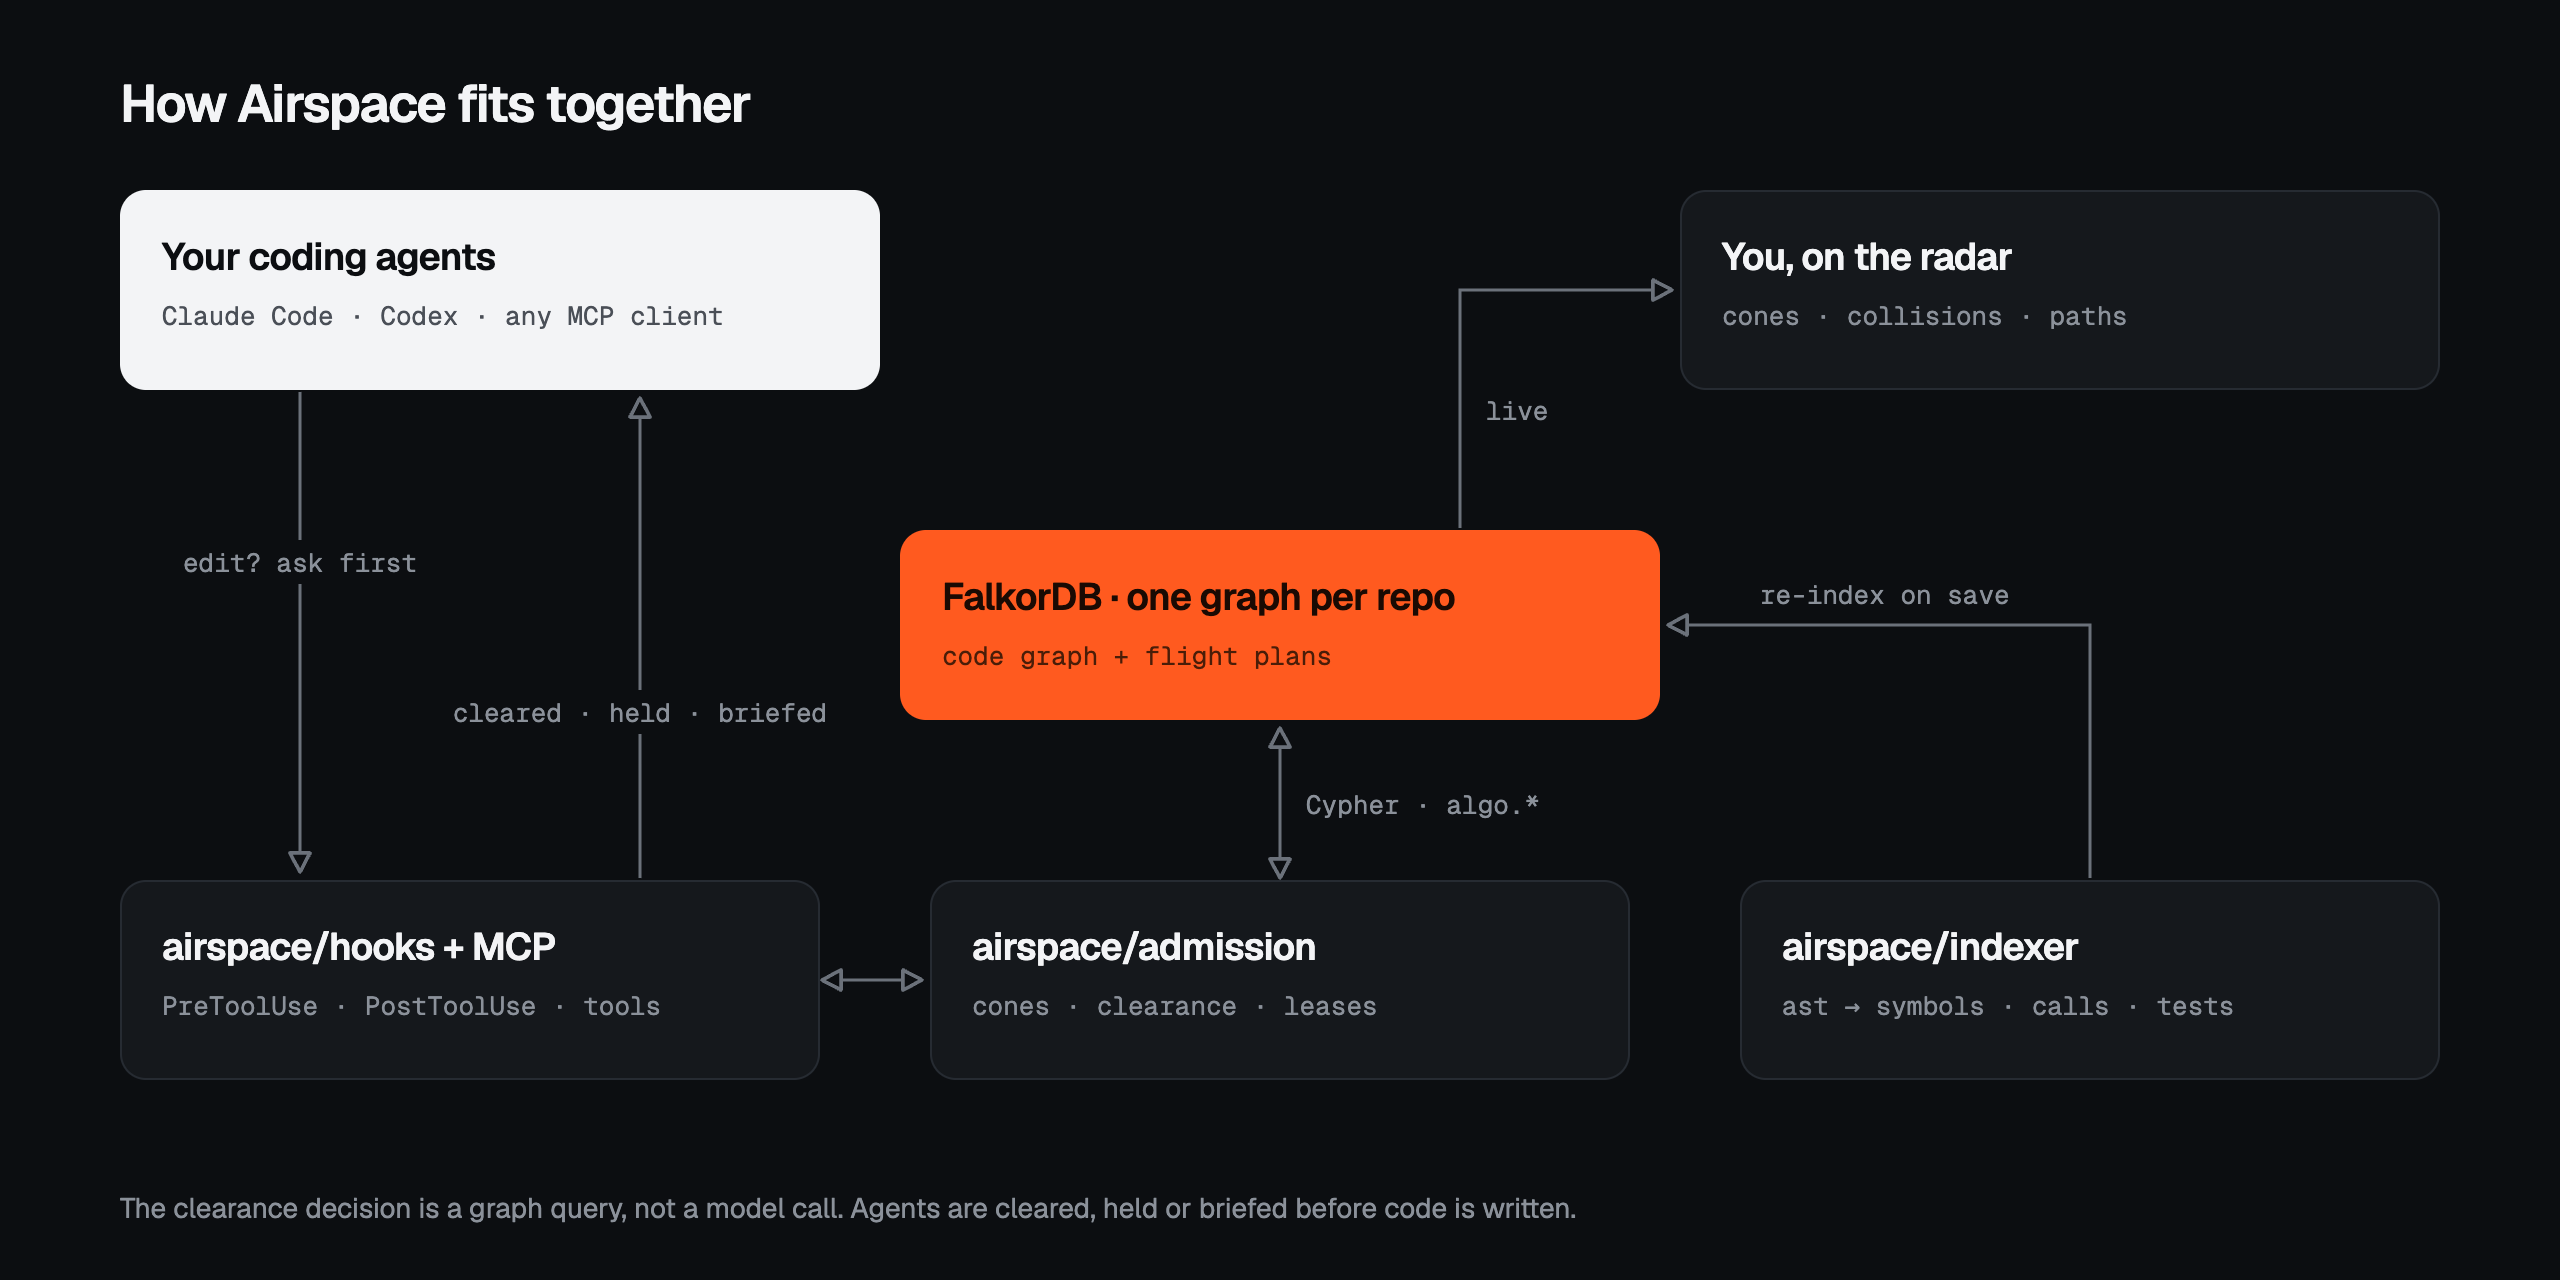
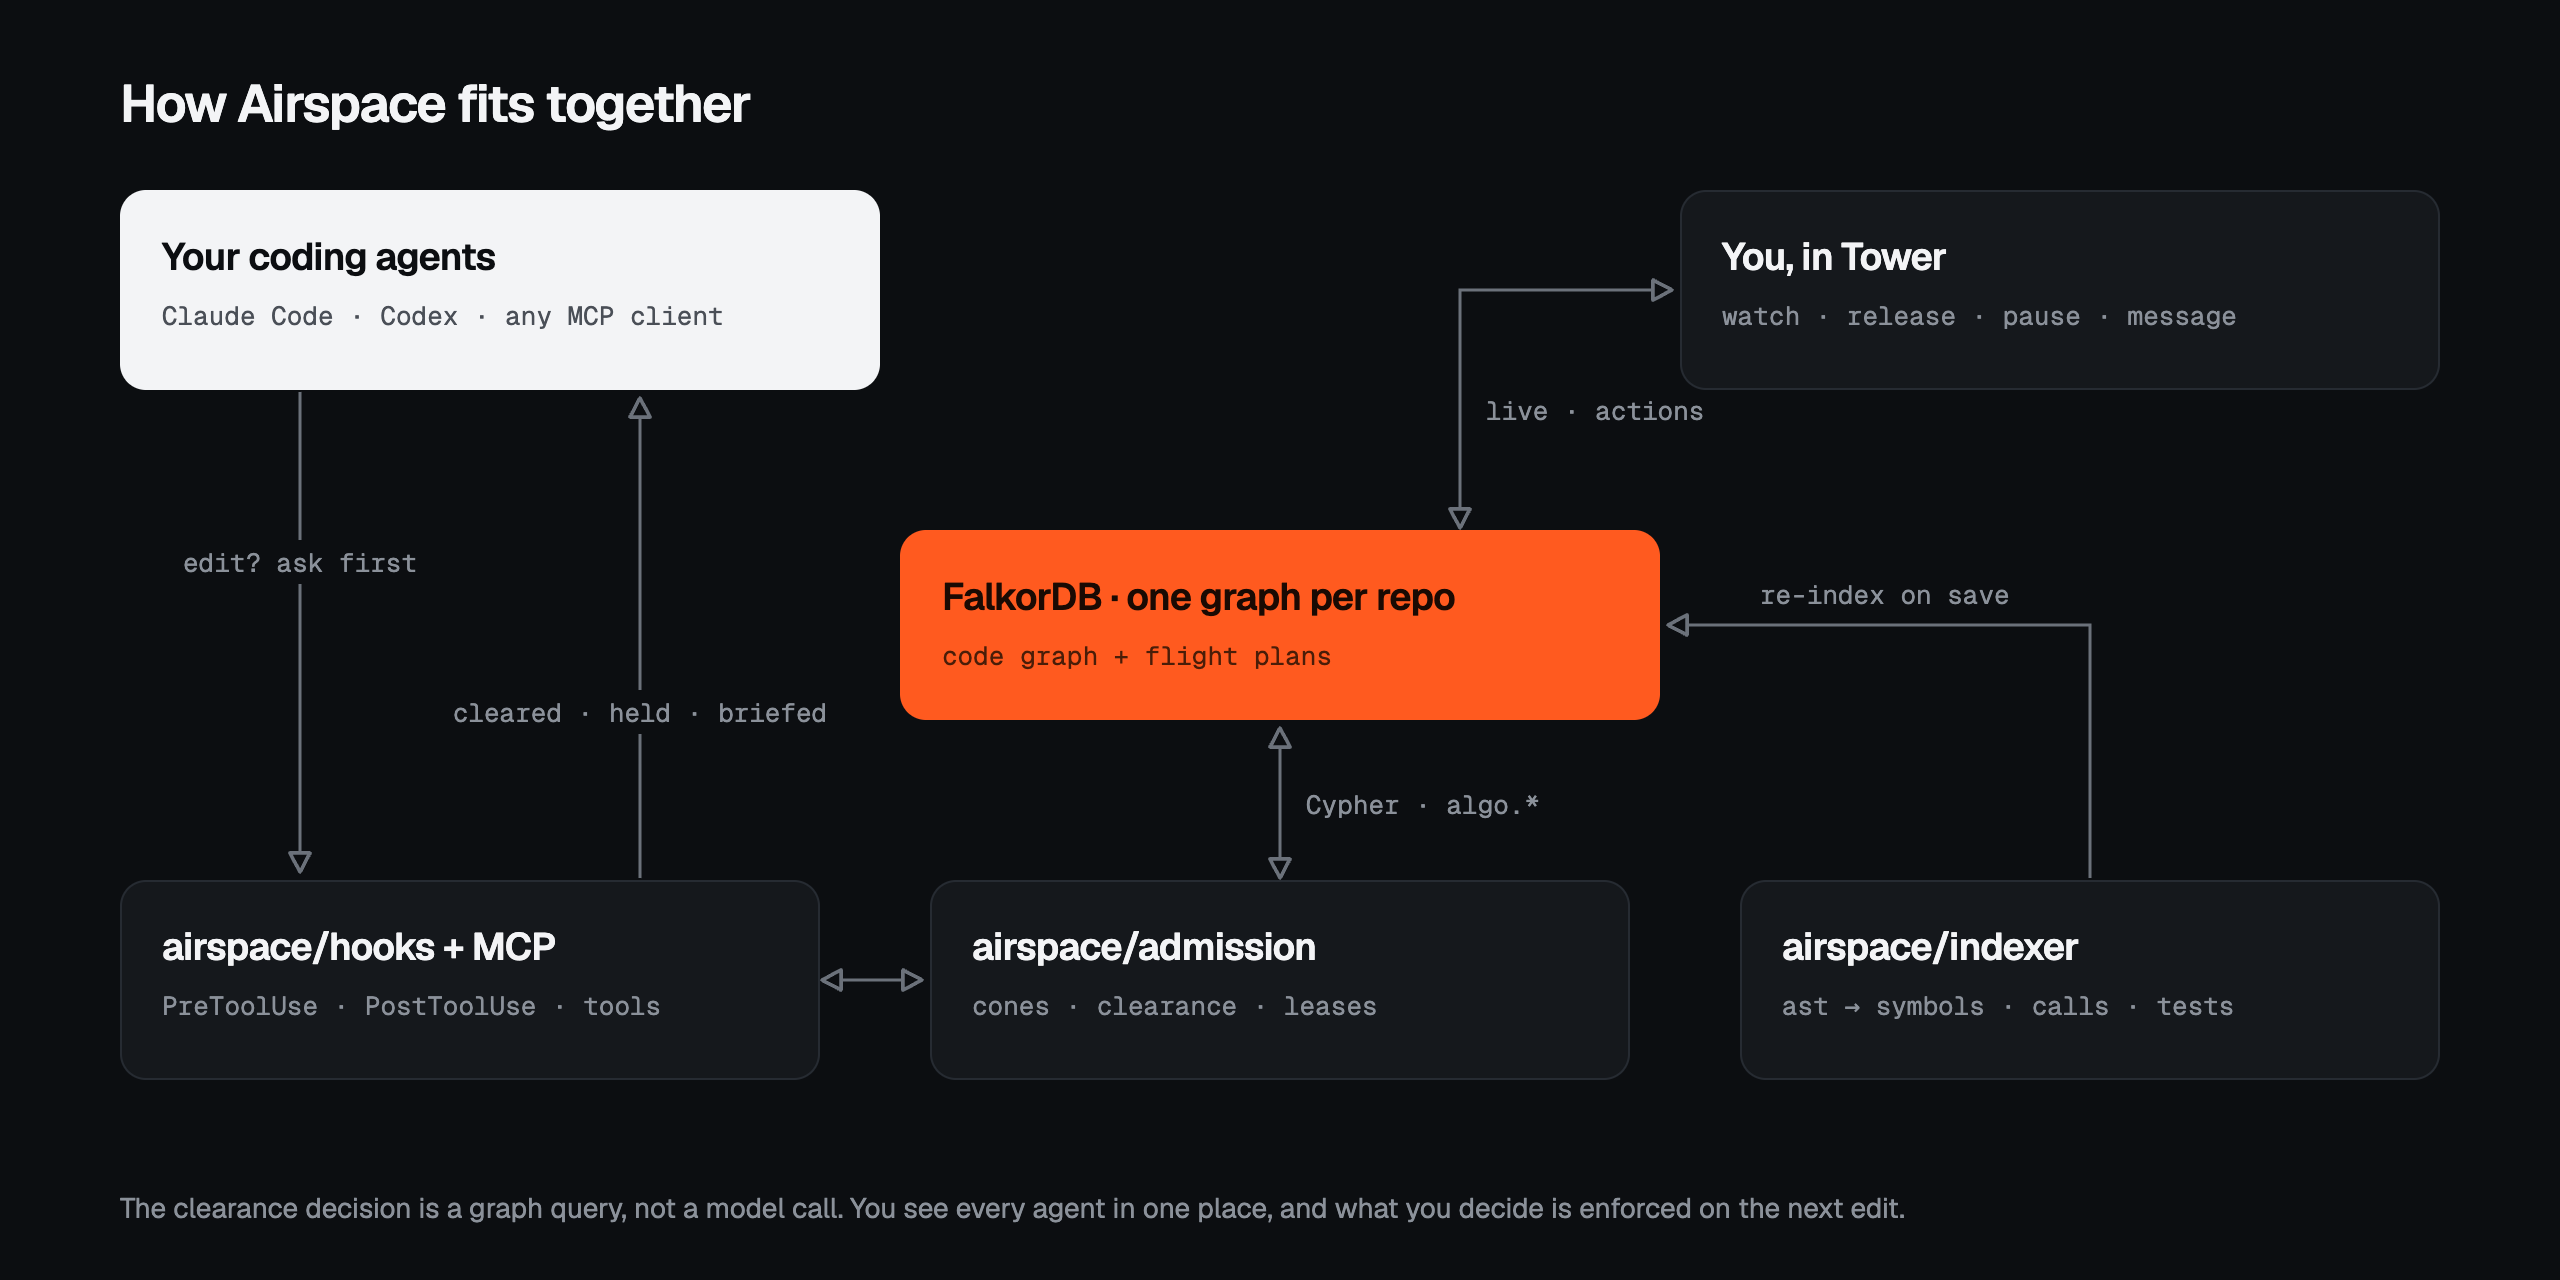
Tower: the web app between developer and agents; demo script and judge test paths

Changed region(s): [[0.3125, 0.9375, 0.75, 0.9688], [0.6875, 0.1875, 0.875, 0.25], [0.625, 0.3125, 0.6562, 0.3438]]

diff --git a/assets/readme/src/architecture.html b/assets/readme/src/architecture.html
@@ -38,7 +38,7 @@
     <h2>Your coding agents</h2><p>Claude Code · Codex · any MCP client</p>
   </div>
   <div class="card" style="left:1680px; top:190px; width:760px; height:200px;">
-    <h2>You, on the radar</h2><p>cones · collisions · paths</p>
+    <h2>You, in Tower</h2><p>watch · release · pause · message</p>
   </div>
   <div class="card hot" style="left:900px; top:530px; width:760px; height:190px;">
     <h2>FalkorDB · one graph per repo</h2><p>code graph + flight plans</p>
@@ -71,7 +71,7 @@
       <!-- indexer -> graph -->
       <path d="M2090 878 V625 H1668" marker-end="url(#arr)"/>
       <!-- graph -> radar -->
-      <path d="M1460 528 V290 H1672" marker-end="url(#arr)"/>
+      <path d="M1460 528 V290 H1672" marker-end="url(#arr)" marker-start="url(#arr)"/>
     </g>
     <g>
       <rect class="lbl-bg" x="150" y="540" width="300" height="44"/>
@@ -80,10 +80,10 @@
       <text class="lbl" x="640" y="722" text-anchor="middle">cleared · held · briefed</text>
       <text class="lbl" x="1306" y="814">Cypher · algo.*</text>
       <text class="lbl" x="1760" y="604">re-index on save</text>
-      <text class="lbl" x="1486" y="420">live</text>
+      <text class="lbl" x="1486" y="420">live · actions</text>
     </g>
   </svg>
 
-  <div class="foot">The clearance decision is a graph query, not a model call. Agents are cleared, held or briefed before code is written.</div>
+  <div class="foot">The clearance decision is a graph query, not a model call. You see every agent in one place, and what you decide is enforced on the next edit.</div>
 </body>
 </html>

diff --git a/docs/notes.md b/docs/notes.md
@@ -49,19 +49,54 @@ Every part of it had already been shown to these judges:
 - **Track 1:** agents act on what the graph shows (hold, brief, re-plan), algorithms as tools, tool selection through MCP.
 - **Not seen at any event we checked.** Nearest prior art: the Claim Plane paper (no graph, 6-pair feasibility check), Aura (commercial, description only), codegraph (single agent).
 
-## 4. Demo video (≤3 minutes)
+## 4. Tower, the web app, and the demo video
 
-1. **Cold open (20 s).** Four Claude Code terminals, one feature split four ways, all green. Merge, and `main` is red. "Passes alone, fails together."
-2. **Same run with Airspace (60 s).**
-   - The radar shows four coloured cones on the code graph.
-   - Agent A's edit to `slugify` is flagged as a contract change.
-   - The radar flashes, showing the shortest path from B's new call site to A's change.
-   - B's next tool call receives the briefing and adapts.
+**Tower** sits between the developer and the agents. Agents stay in real Claude Code terminals; Tower shows all of them at once and lets the developer act. Everything is read from and written to the FalkorDB graph, and every action is enforced by the hooks on the agent's next tool call.
+
+**What Tower shows:**
+- radar (code graph and cones);
+- flight log (every clearance check);
+- activity (each agent's tool calls, streamed by `PostToolUse`);
+- collision detail (two tasks, path, contract change, who was briefed);
+- hot zones;
+- playground;
+- results.
+
+**What you can do in Tower:**
+- release a hold (once, or for the rest of the task);
+- pause or resume an agent;
+- hand off a symbol from one task to another;
+- message an agent (the note arrives on its next tool call);
+- approve a contract change before its dependents are briefed.
+
+**The link between the two:** every HOLD message in a terminal carries a link to its collision in Tower. Every Tower action shows up in the terminal on the agent's next tool call. The demo moves back and forth across that link.
+
+**Recording layout:** two Claude Code terminals on the left, Tower on the right, one screen, one take where possible.
+
+**Demo video (≤3 minutes):**
+1. **Cold open (20 s).** Without Airspace: two terminals, one feature, both green. Merge, and `main` is red. "Passes alone, fails together."
+2. **With Airspace (70 s).**
+   - Terminal A starts changing `slugify`, and its cone appears in Tower.
+   - Terminal B tries to edit `views.py` and gets HOLD with the path.
+   - Click the link. Tower opens the collision, showing the path, A's new signature and B's call site.
+   - In Tower, choose **Message B: "use the new signature"**.
+   - Terminal B's next tool call shows the note, B adapts, and the edit is cleared.
    - Merge: green.
-3. **The graph is real (20 s).** FalkorDB Browser on the same graph; one `algo.WCC` query shows which tasks could safely run in parallel.
-4. **Numbers (30 s).** Bar chart of interference rate and parallelism kept for worktrees only, broadcast and Airspace across N task sets.
-5. **Memory (20 s).** Next session, the planner avoids the hot zone, and the collision never happens.
-6. **Close (10 s).** One-line install: the MCP server plus the Claude Code hook.
+3. **Steer from Tower (20 s).** Pause agent A from Tower. Terminal A's next edit is held with "paused by controller". Resume it.
+4. **The graph is real (20 s).**
+   - The Tower playground runs a clearance query live.
+   - FalkorDB Browser shows the same graph.
+   - `algo.WCC` splits the tasks into groups that can safely run in parallel.
+5. **Numbers (30 s).** Interference and parallelism kept for worktrees only, broadcast and Airspace.
+6. **Memory (10 s).** Next session, `slugify` is a hot zone, and the planner splits the work so the collision never happens.
+7. **Close (10 s).** `airspace install-hooks`, and the Tower URL.
+
+**How judges test it** (ordered by effort; the first three need no API key):
+1. The video.
+2. Tower live, with a recorded run replayed into a real graph; collision paths and queries run live.
+3. The playground.
+4. `airspace demo` locally with scripted agents.
+5. Real Claude Code with `airspace install-hooks`.
 
 ## 5. Benchmark plan
 
@@ -89,8 +124,8 @@ Every part of it had already been shown to these judges:
 |---|---|---|
 | **Oct 15** | Indexer (Python `ast` to FalkorDB, incremental re-index per file); cone, clearance, lease and explain queries tested on the target repo; algorithm checks | Index only the target package, not tests |
 | **Oct 16** | Admission service + MCP server + Claude Code hooks; two live agents colliding and being briefed end to end | Briefing delivered at the next prompt, not the next tool call |
-| **Oct 17** | Benchmark harness and runs; radar UI (cones, collisions, explaining path, timeline); hot-zone memory | Fewer task sets; static radar replay instead of live |
-| **Oct 18** | Numbers into the README; deploy the radar plus a demo replay; record the video; blog post; **submit by 18:00 IST** | Local setup and video instead of a live deploy |
+| **Oct 17** | Tower: radar, flight log, activity, collision detail, then actions (release, pause, hand off, message, approve); benchmark harness and runs; hot-zone memory | Fewer task sets; drop hand-off and approve, keep release, pause and message |
+| **Oct 18** | Playground and replay mode; deploy Tower with FalkorDB on the VPS; `airspace demo`; numbers into the README; record the video; blog post; **submit by 18:00 IST** | Local setup and video instead of a live deploy; never cut the video, live Tower or playground |
 
 ## 8. Side prizes
 

diff --git a/README.md b/README.md
@@ -40,10 +40,25 @@ This is what an agent sees:
     new   slugify(value, *, unicode=False)
     path  blog.views.render_post ─CALLS→ utils.text.slugify
     Use the new signature, or wait for agent-a to land.
+    tower http://localhost:4173/collisions/c_0007
 
 ● Edit(blog/views.py)   slugify(post.title, unicode=True)
   ✓ Airspace · cleared
 ```
+
+### Tower: watch and steer from the browser
+
+Your agents work in their own Claude Code terminals. **Tower** is the web app where you see all of them at once and step in when you need to. Everything it shows is read live from the graph, and everything you do there is enforced on the agent's next tool call.
+
+| You see | You can do |
+| --- | --- |
+| **Radar:** the code graph, each agent's cone in its own colour, collisions as they happen | **Release** a hold, once or for the rest of the task |
+| **Flight log:** every clearance check, with agent, file, verdict, reason and time | **Pause** or resume an agent; its edits are held until you resume it |
+| **Activity:** each agent's tool calls, streamed from its session | **Hand off** a symbol from one task to another |
+| **Collision:** the two tasks, the path between them, the contract change, who was briefed | **Message** an agent; the note arrives with its next tool call |
+| **Hot zones:** symbols that collided across sessions | **Approve** a contract change before its dependents are briefed |
+
+Every hold message in the terminal links to its collision in Tower, so you can go from a blocked edit to the path behind it in one click.
 
 ### Why a graph
 
@@ -154,8 +169,18 @@ The table fills in once the runs are done. We won't publish a number we haven't 
 | [`server/src/airspace/mcp_server`](server/src/airspace/mcp_server) | MCP tools: `file_flight_plan`, `request_clearance`, `report_change`, `briefings`, `radar` |
 | [`server/src/airspace/api`](server/src/airspace/api) | HTTP and live updates for the radar |
 | [`server/src/airspace/bench`](server/src/airspace/bench) | The three-condition benchmark harness |
-| [`web`](web) | The radar (Vite, React, sigma.js) |
+| [`web`](web) | Tower, the web app: radar, flight log, activity, collisions, hot zones, playground, results (Vite, React, sigma.js) |
 | [`docs/notes.md`](docs/notes.md) | Research, plan and decisions |
+
+## Try it
+
+| Time | How | You need |
+| --- | --- | --- |
+| 0 min | Watch the demo video | Nothing |
+| 30 s | Open Tower live and replay a recorded run. Click a collision for its path; the queries run on FalkorDB. | A browser |
+| 2 min | **Playground** in Tower: pick what two agents will change on a real repo and get the verdict and path. No agents and no API key, because clearance is a graph query, not a model call. | A browser |
+| 5 min | `airspace demo`: two scripted agents replay a real run through the real hooks | Docker |
+| 15 min | `airspace install-hooks` in any Python repo, then two Claude Code sessions | Claude Code |
 
 ## Quick start
 
@@ -183,7 +208,9 @@ Indexing, hook install and radar commands land here as they're built.
 - [ ] Cones, clearance, leases and collision paths
 - [ ] Claude Code hooks and the MCP server
 - [ ] Briefings on contract changes
-- [ ] The radar
+- [ ] Tower: radar, flight log, activity and collision views
+- [ ] Tower actions: release, pause, hand off, message, approve
+- [ ] Tower playground and replay mode
 - [ ] Hot-zone memory across sessions
 - [ ] Benchmark: worktrees vs broadcast vs Airspace
 - [ ] Live deployment, demo video and write-up
